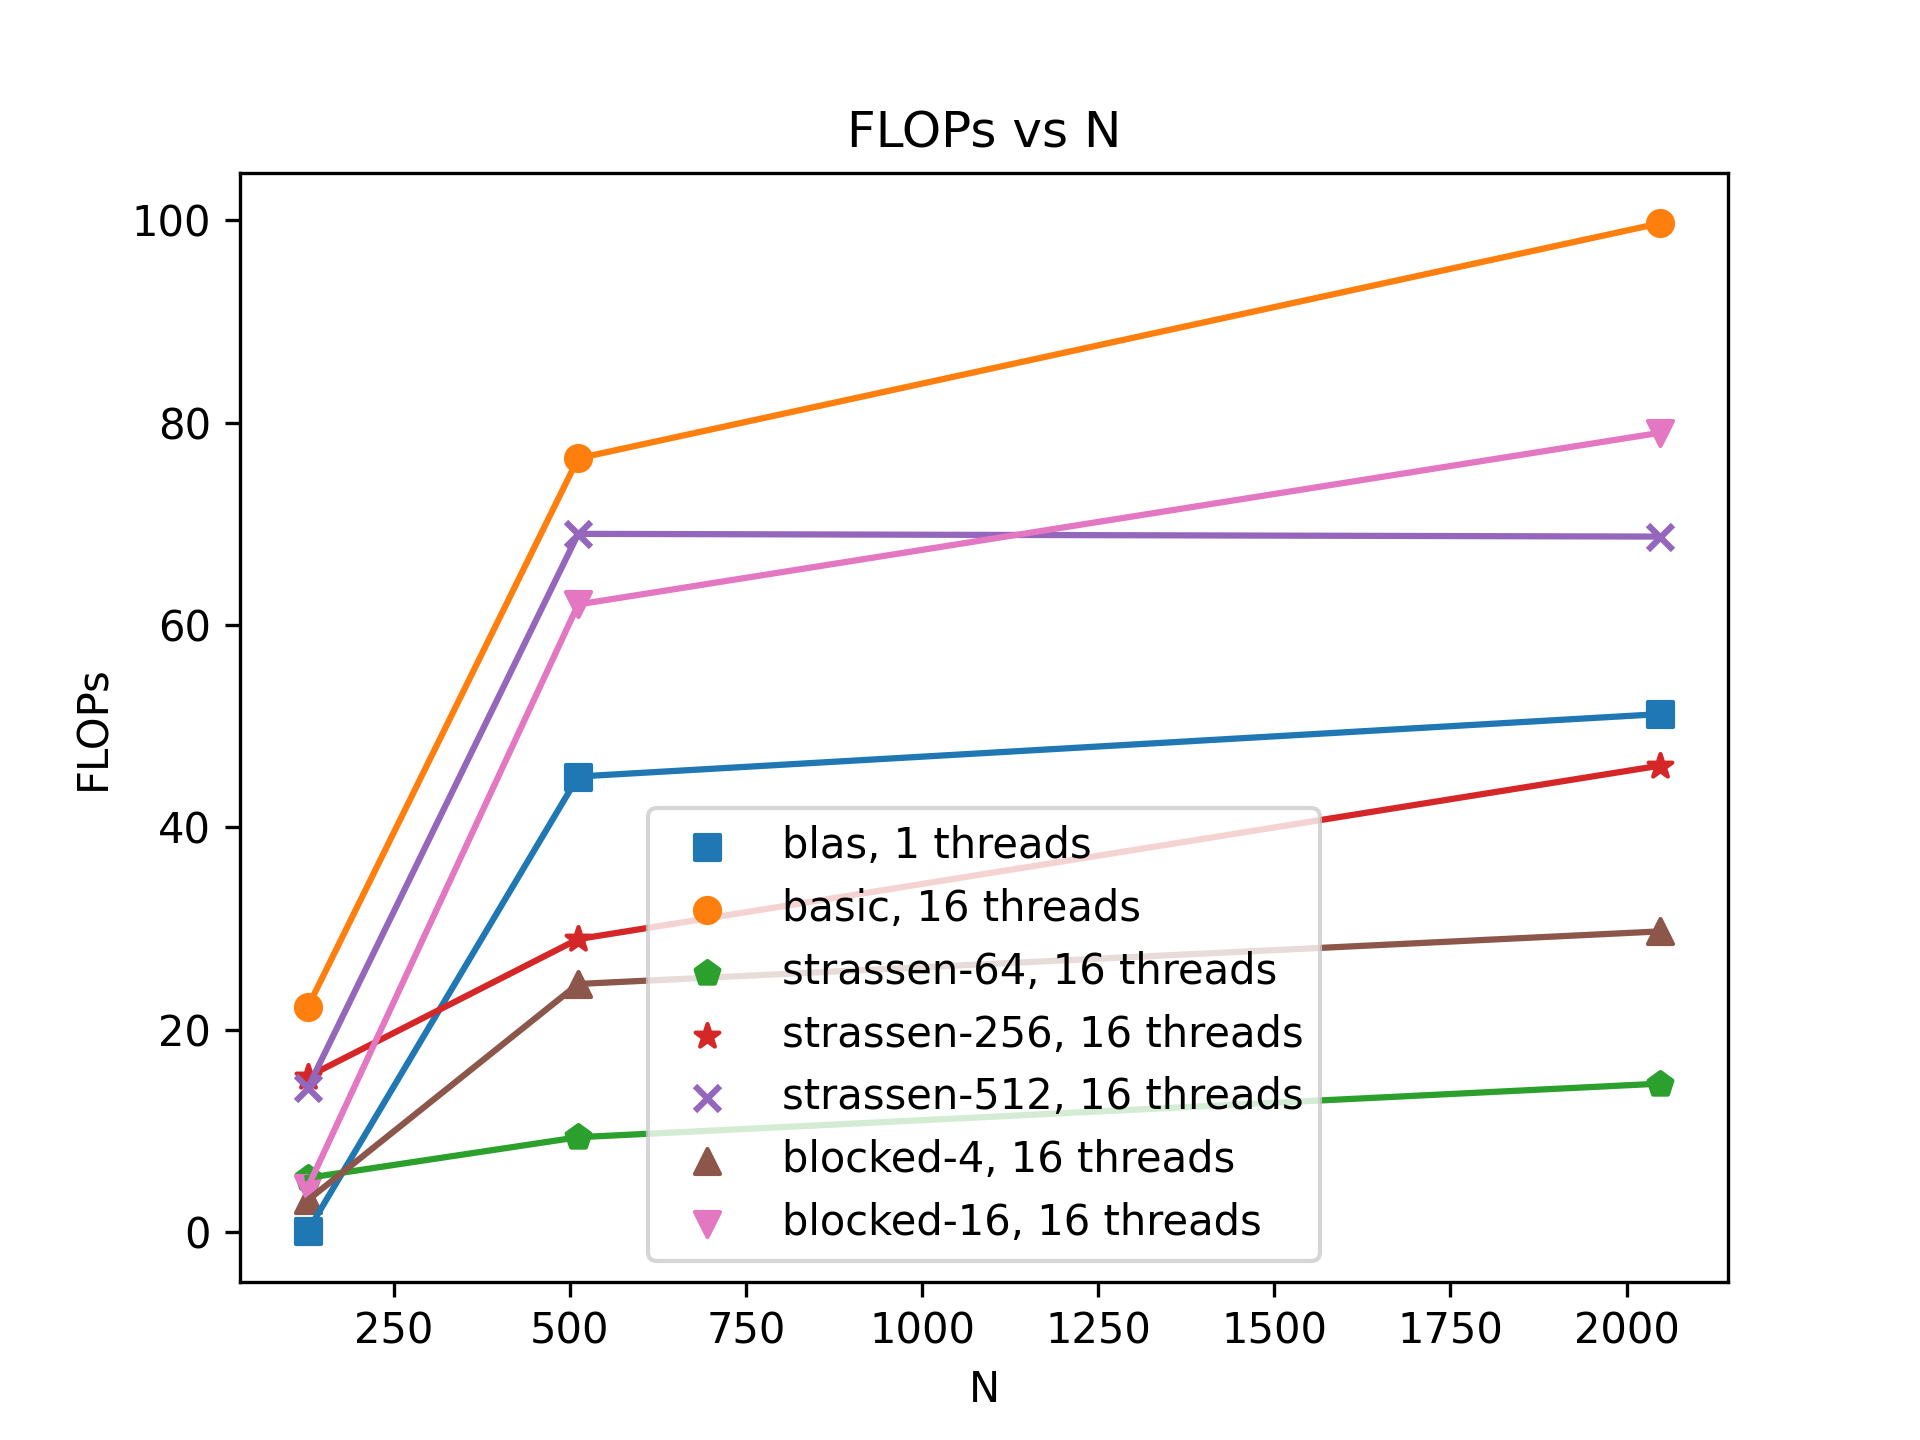
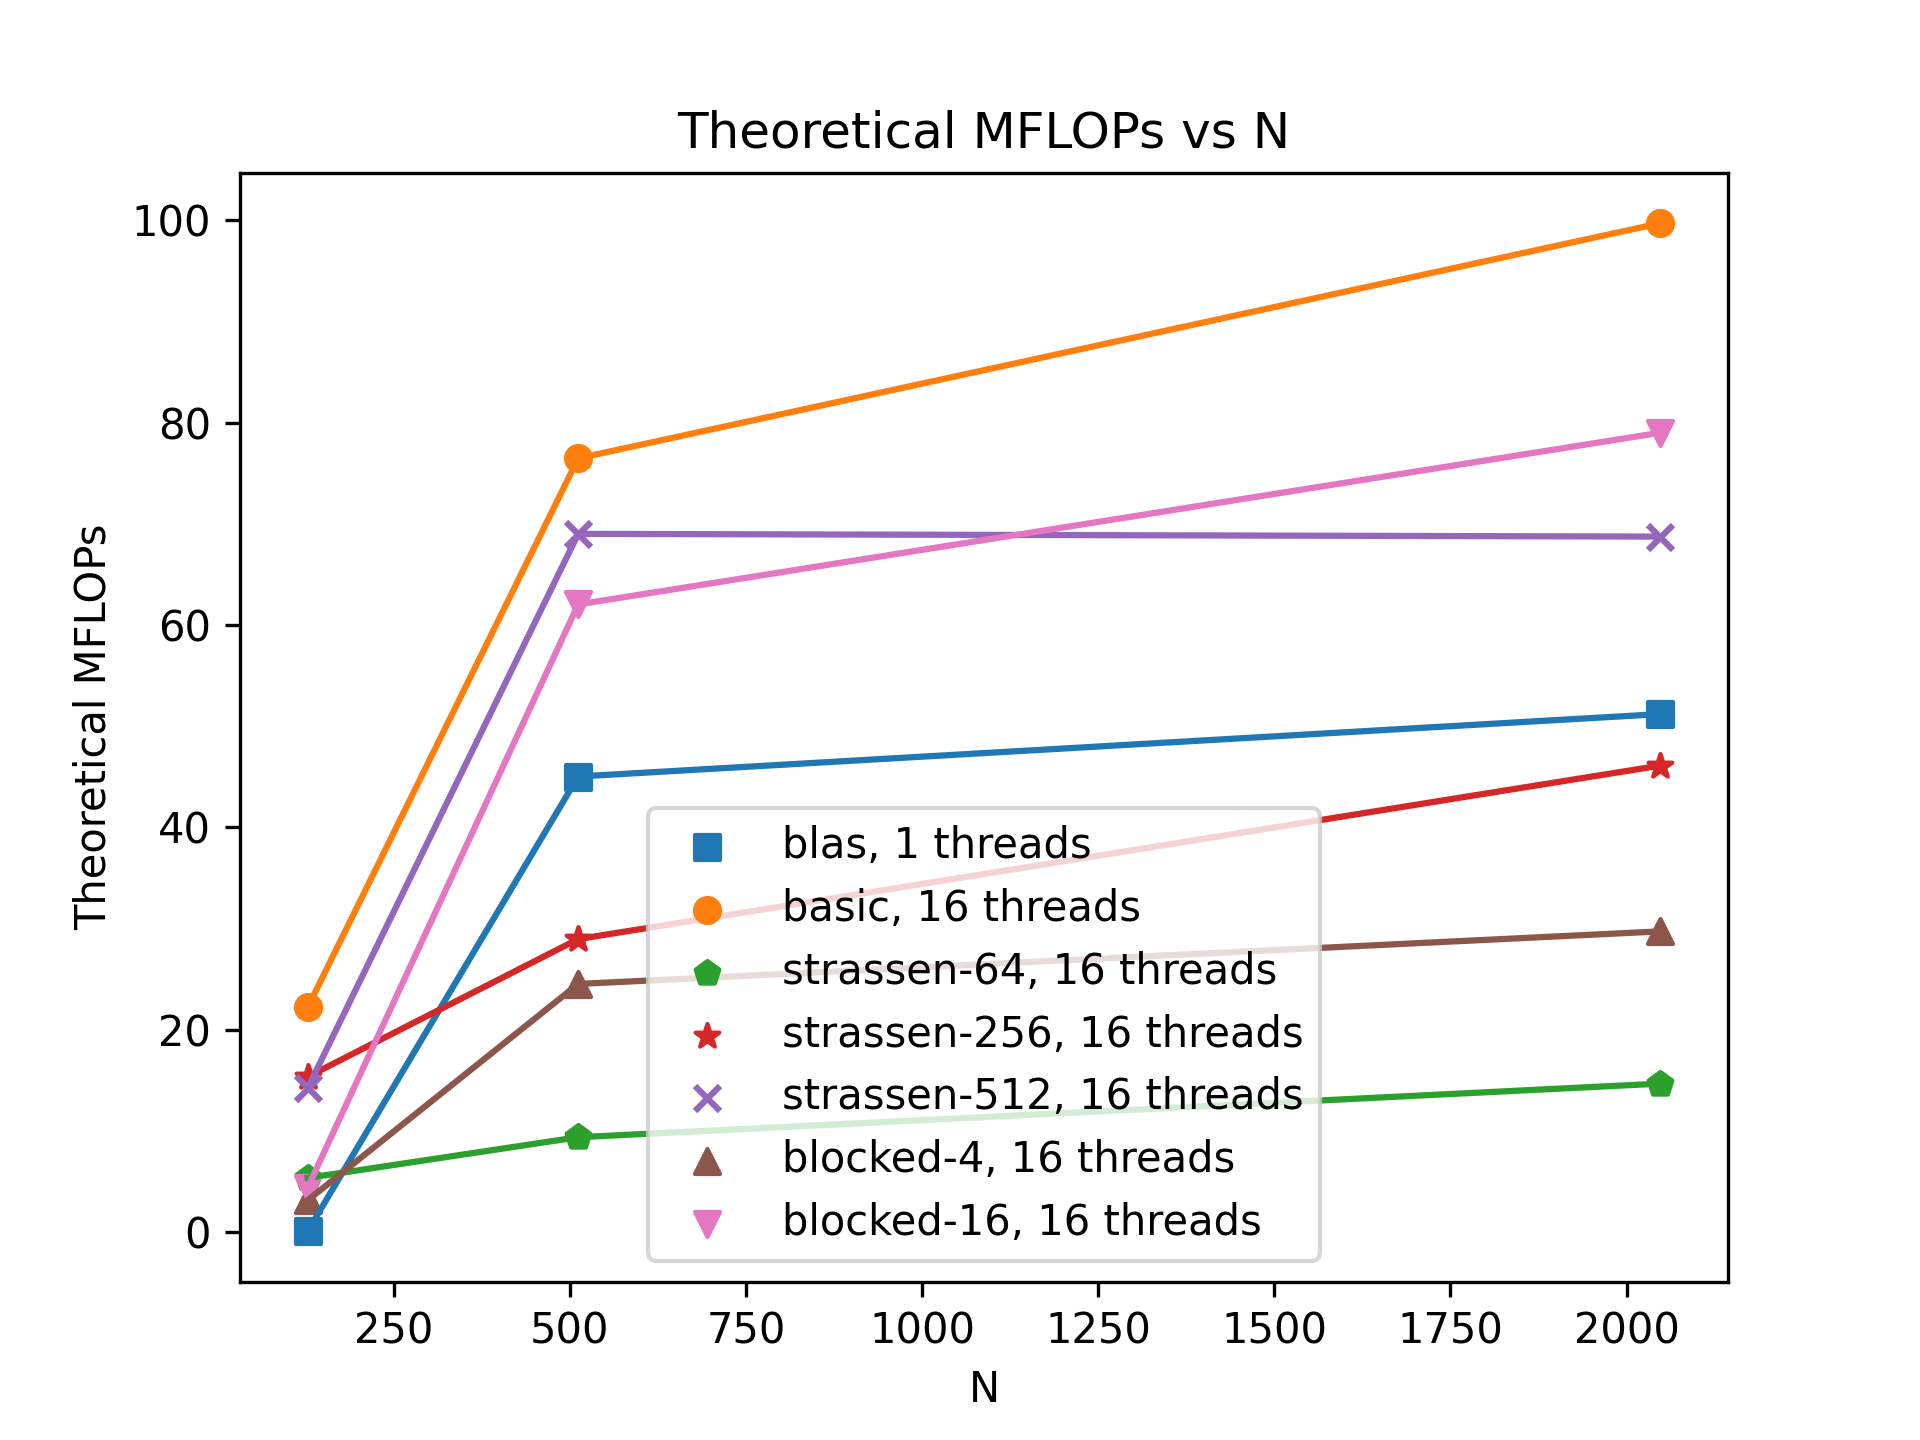
FIX: final update

Changed region(s): [[0.3438, 0.0625, 0.5938, 0.125], [0.0312, 0.375, 0.0625, 0.6562], [0.625, 0.0625, 0.6875, 0.0938]]

diff --git a/parse_results.py b/parse_results.py
@@ -86,18 +86,21 @@ def plot_runtimes(
     results = parse_rt(method, N, [threads_num])[threads_num]
     if mode == 'Runtime (s)':
       results = [results[n] for n in N]
+      ylabel = mode
     elif mode == 'FLOPs':
       results = [2 * n ** 3 / results[n] / 1e9 for n in N]
+      ylabel  = 'Theoretical MFLOPs'
     elif mode == 'Speedup':
       results_1 = parse_rt(method, N, [1])[1]
       results = [results_1[n] / results[n] for n in N]
+      ylabel = mode
     else:
       raise ValueError(f"Unknown mode {mode}")
     plt.scatter(N, results, label=f"{method}, {threads_num} threads", marker=marker_dict[method], color=colors[idx])
     plt.plot(N, results, color=colors[idx])
   plt.xlabel('N')
-  plt.ylabel(f'{mode}')
-  plt.title(f'{mode} vs N')
+  plt.ylabel(ylabel)
+  plt.title(f'{ylabel} vs N')
   plt.legend()
   plt.savefig(f'graphs_tables/{figname}.png', dpi=300)
   plt.close()
